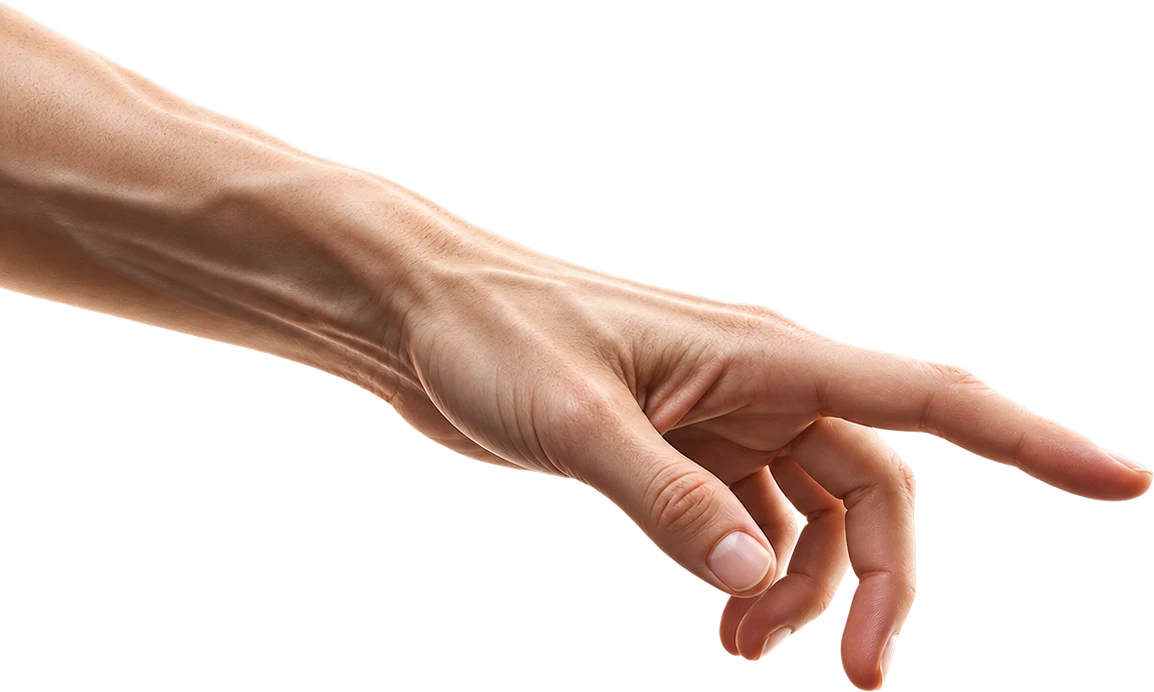
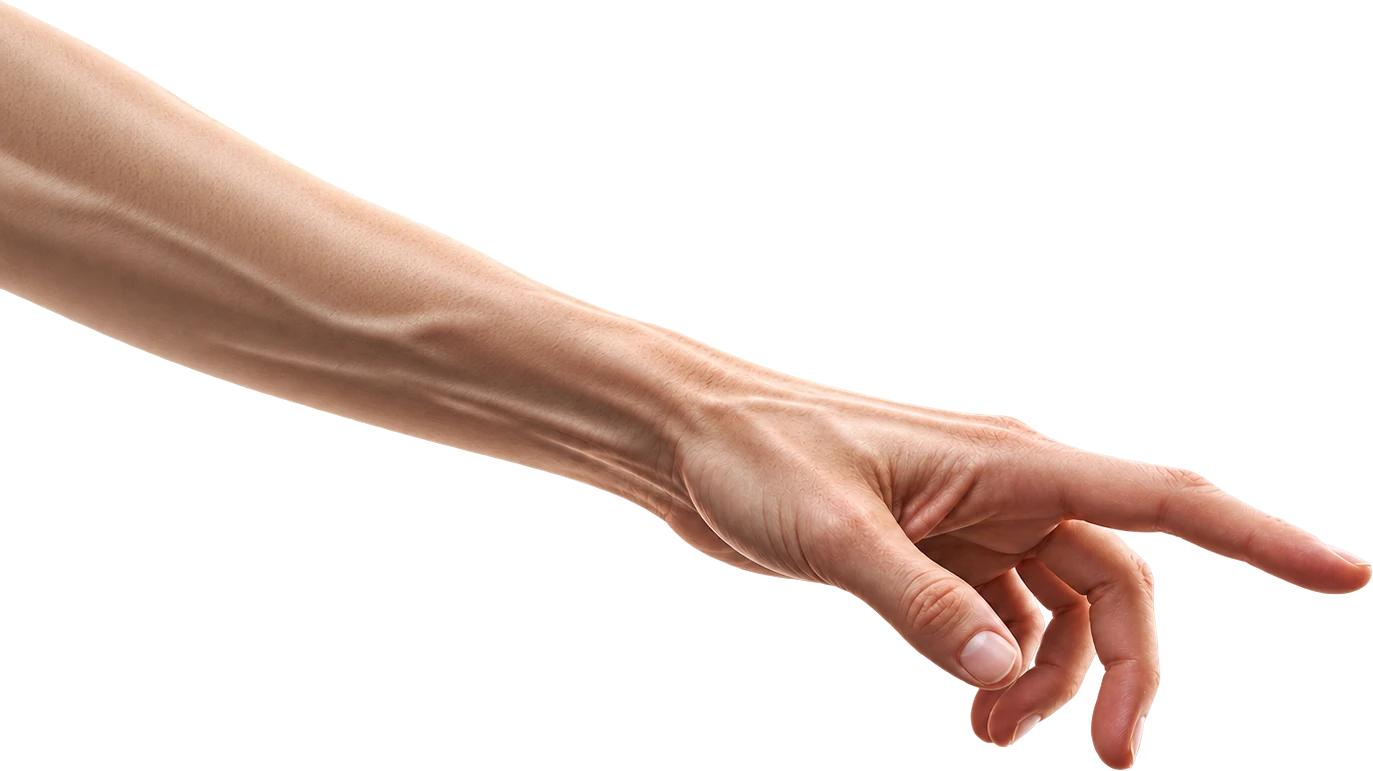
Use full-length arms that run off the screen edges

Changed region(s): [[0.0, 0.0303, 1.0, 1.0]]

diff --git a/script.js b/script.js
@@ -33,8 +33,8 @@ requestAnimationFrame(tickVelocity);
 const hero = $('#home');
 const hands = $('#hands');
 const handH = $('.hand-h', hands), handR = $('.hand-r', hands), spark = $('.spark', hands);
-const TIP_H = { x: .998, y: .692, ratio: 692 / 1154 };
-const TIP_R = { x: .001, y: .033, ratio: 724 / 1205 };
+const TIP_H = { x: .9985, y: .742, ratio: 771 / 1373 };
+const TIP_R = { x: .001, y: .047, ratio: 539 / 1355 };
 let mouseX = 0, mouseY = 0;
 addEventListener('pointermove', (e) => {
   mouseX = e.clientX / innerWidth - .5; mouseY = e.clientY / innerHeight - .5;
@@ -42,19 +42,22 @@ addEventListener('pointermove', (e) => {
 const placeHands = (p, t) => {
   const W = hands.clientWidth, H = hands.clientHeight;
   const narrow = W < 700;
-  const hw = W * (narrow ? .56 : .38), rw = hw * (1205 / 1154) * .8;
   const cx = W / 2, cy = H * (narrow ? .6 : .57);
   const k = ease(clamp(p));
-  const gap = lerp(W * .55, W * (narrow ? .012 : .008), k);
+  const endGap = W * (narrow ? .012 : .008);
+  const gap = lerp(W * .55, endGap, k);
+  // each arm is sized so its cut end always sits past the screen edge
+  const hw = (cx - endGap) / TIP_H.x * 1.05;
+  const rw = (W - cx - endGap) / (1 - TIP_R.x) * 1.05;
   const bob = reduced ? 0 : Math.sin(t * 1.1) * 5;
   const tiltX = reduced ? 0 : mouseY * -6, tiltY = reduced ? 0 : mouseX * 8;
   // human: its fingertip sits at (cx - gap, cy)
   const hx = cx - gap - hw * TIP_H.x, hy = cy - hw * TIP_H.ratio * TIP_H.y;
   handH.style.width = `${hw}px`;
-  handH.style.transform = `translate3d(${hx}px,${hy + bob}px,0) rotateY(${tiltY}deg) rotateX(${tiltX}deg) rotate(${(1 - k) * -10}deg)`;
+  handH.style.transform = `translate3d(${hx}px,${hy + bob}px,0) rotateY(${tiltY}deg) rotateX(${tiltX}deg) rotate(${(1 - k) * -6}deg)`;
   const rx = cx + gap - rw * TIP_R.x, ry = cy - rw * TIP_R.ratio * TIP_R.y;
   handR.style.width = `${rw}px`;
-  handR.style.transform = `translate3d(${rx}px,${ry - bob * .8}px,0) rotateY(${tiltY}deg) rotateX(${tiltX}deg) rotate(${(1 - k) * 10}deg)`;
+  handR.style.transform = `translate3d(${rx}px,${ry - bob * .8}px,0) rotateY(${tiltY}deg) rotateX(${tiltX}deg) rotate(${(1 - k) * 6}deg)`;
   const glow = clamp((k - .78) / .2);
   spark.style.transform = `translate3d(${cx}px,${cy}px,0) translate(-50%,-50%) scale(${.4 + glow * .6 + (reduced ? 0 : Math.sin(t * 6) * .06 * glow)})`;
   spark.style.opacity = glow;

diff --git a/style.css b/style.css
@@ -106,13 +106,15 @@ body::after {
   font-size: clamp(44px, 7.4vw, 120px); translate: 0 -12vh;
 }
 .hero-title span { display: block; }
+.hero-title { z-index: 2; }
+.hero-foot { z-index: 2; }
 .hero-title .l1, .hero-title .l2 { animation: rise 1.2s var(--ease) both; }
 .hero-title .l2 { animation-delay: .12s; }
 .hands { position: absolute; inset: 0; pointer-events: none; perspective: 1400px; overflow: hidden; }
 .hand { position: absolute; left: 0; top: 0; will-change: transform; transform-origin: 50% 50%; }
 .hand img { width: 100%; height: auto; }
-.hand-h { transform-origin: 99.8% 69.2%; -webkit-mask-image: linear-gradient(100deg, transparent 14%, #000 42%); mask-image: linear-gradient(100deg, transparent 14%, #000 42%); }
-.hand-r { transform-origin: .1% 3.3%; -webkit-mask-image: linear-gradient(270deg, transparent 2%, #000 30%); mask-image: linear-gradient(270deg, transparent 2%, #000 30%); }
+.hand-h { transform-origin: 99.85% 74.2%; }
+.hand-r { transform-origin: .1% 4.7%; }
 .spark {
   position: absolute; left: 0; top: 0; width: 120px; height: 120px; border-radius: 50%; opacity: 0;
   background: radial-gradient(circle, #fff 0 6%, rgb(120 235 250 / .9) 12%, rgb(0 166 190 / .35) 34%, transparent 66%);

diff --git a/index.html b/index.html
@@ -60,8 +60,8 @@
         <span class="l2"><em>Intelligence</em> that answers</span>
       </h1>
       <div class="hands" id="hands" aria-hidden="true">
-        <div class="hand hand-h"><img src="img/hand-human.webp" alt="" width="1154" height="692" fetchpriority="high"></div>
-        <div class="hand hand-r"><img src="img/hand-robot.webp" alt="" width="1205" height="724" fetchpriority="high"></div>
+        <div class="hand hand-h"><img src="img/hand-human.webp" alt="" width="1373" height="771" fetchpriority="high"></div>
+        <div class="hand hand-r"><img src="img/hand-robot.webp" alt="" width="1355" height="539" fetchpriority="high"></div>
         <span class="spark"></span>
       </div>
       <div class="hero-foot">
